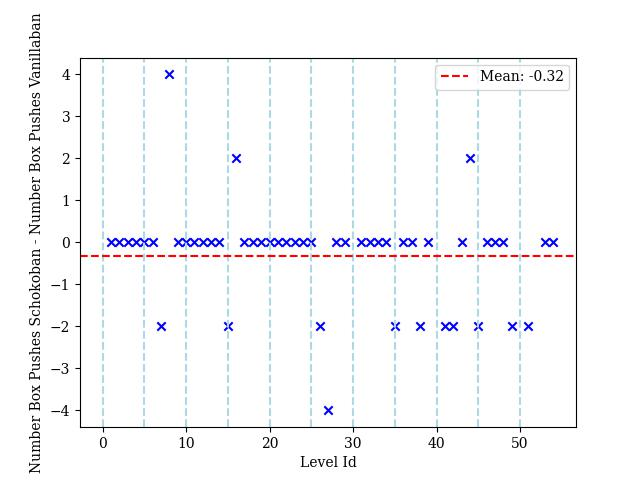
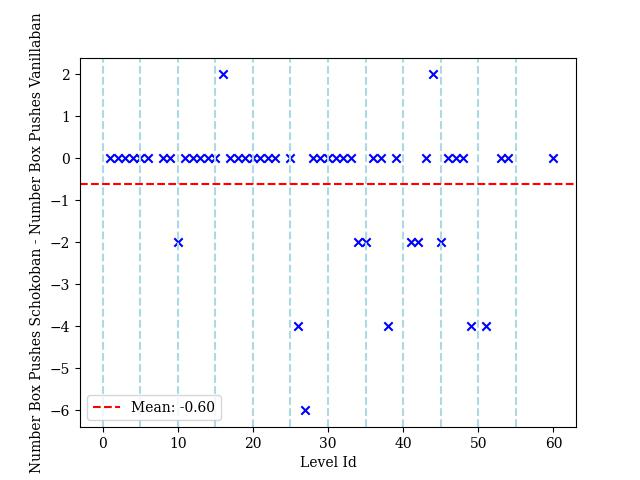
Added comparison for solution lengths.

diff --git a/utils/gen_sol_len_plot.py b/utils/gen_sol_len_plot.py
@@ -10,8 +10,8 @@ import matplotlib.pyplot as plt
 
 plt.rcParams['font.family'] = 'DejaVu Serif'
 
-path = "Results/CBC/solution_lengths.csv"
-# path = "/Results/Microban/solution_lengths.csv"
+# path = "Results/CBC/solution_lengths.csv"
+path = "Results/Microban/solution_lengths.csv"
 df = pd.read_csv(path, index_col=None)
 level_ids = df.iloc[:, 0].values
 sol_diffs = df.iloc[:, 1].values - df.iloc[:, 2].values
@@ -20,8 +20,8 @@ mean = np.mean(sol_diffs)
 for i in range(0, max(level_ids), 5):
     plt.axvline(x=i, color='lightblue', linestyle='--')
 plt.scatter(level_ids, sol_diffs, marker='x', color='b')
-plt.axhline(y=mean, color='r', linestyle='--', label=f'Mean: {mean:.2f}') 
+plt.axhline(y=mean, color='r', linestyle='--', label=f'Mean: {mean:.2f}')
 plt.xlabel("Level Id")
-plt.ylabel("Number Box Pushes Schokoban - Number Box Pushes Vanillaban")
-plt.legend()
+plt.ylabel("Box Pushes Schokoban - Box Pushes Vanillaban")
+plt.legend(loc='lower left')
 plt.show()
